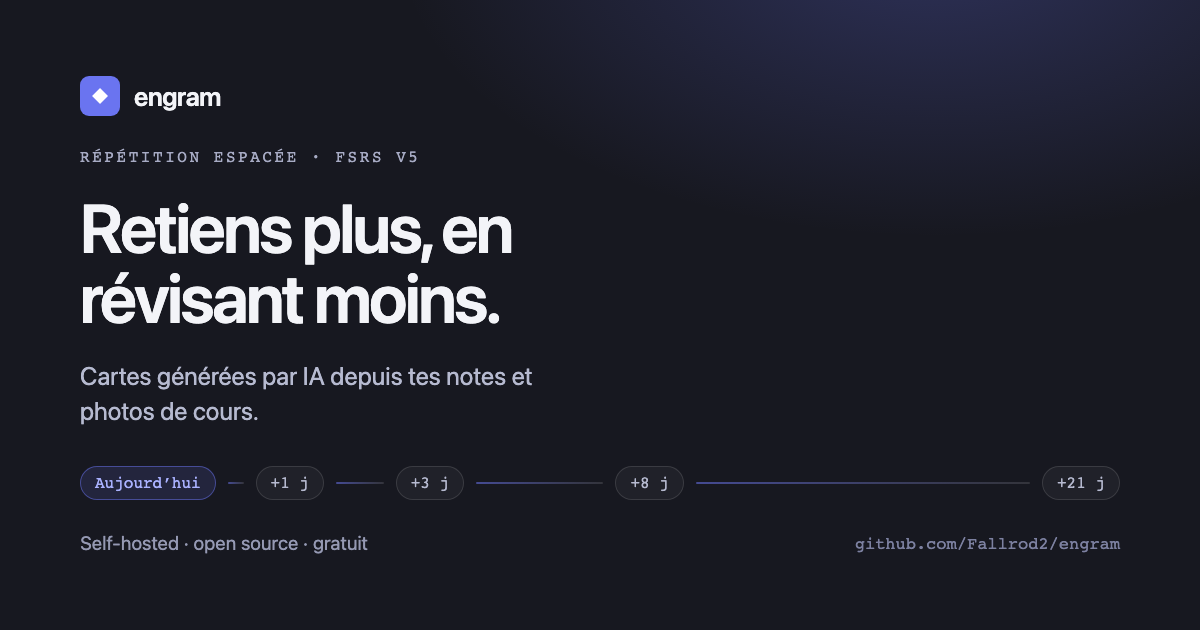
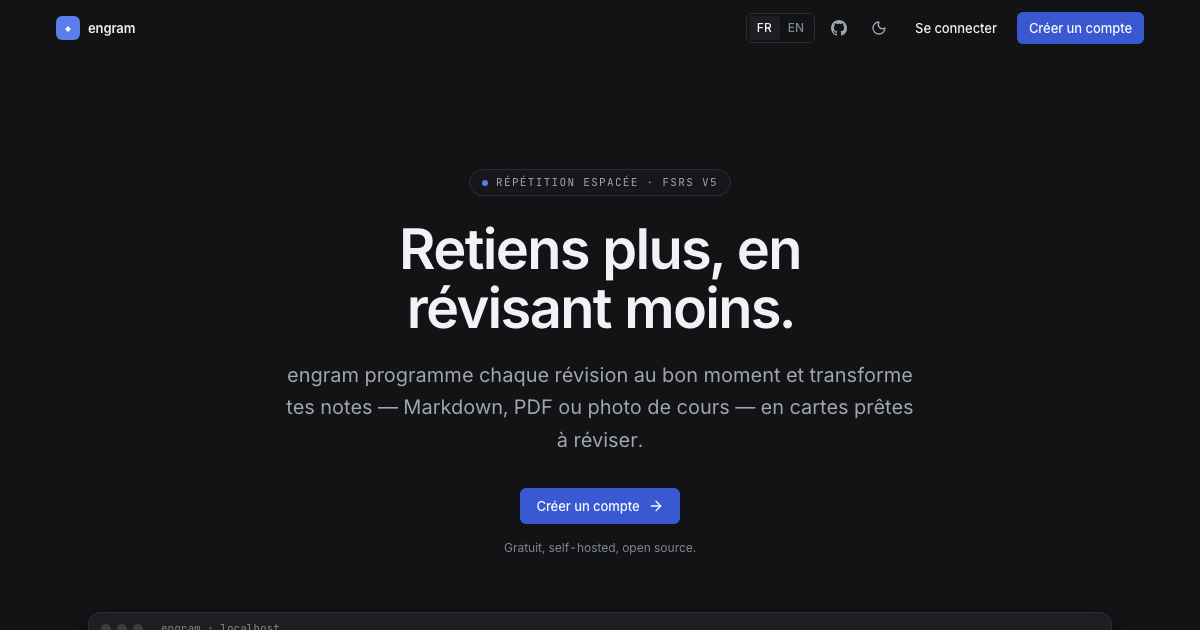
fix(web): EN product captures + og regeneration + rhythm-strip scroll fade
The EN landing reused 100% FR screenshots. Capture every product screen in four
variants — theme (dark/light) x language (fr/en) — written as
`<screen>-<theme>-<lang>.webp`, and swap ThemedShot on both theme AND language;
card content stays French (seeded user data), only the UI chrome localizes. The
capture script now also regenerates the social card `og.png` (the landing hero at
the declared 1200x630) so every landing asset is script-reproducible. On the
rhythm strip, the static right-edge fade veiled the final "+55 j" pill even when
scrolled to the end; make it scroll-driven so it lifts at the destination.

Claude-Session: https://claude.ai/code/session_01TxcajFqLamG8AJNQ91pR61

diff --git a/scripts/generate-landing-shots.ts b/scripts/generate-landing-shots.ts
@@ -2,21 +2,22 @@
  * Reproducible landing product-capture generator (finding: captures were stale —
  * old indigo, FR shots on the EN landing, an impossible "rating buttons without a
  * revealed answer" review state). Regenerates `apps/web/public/landing/*.webp`
- * from the CURRENT UI, dark + light, against a deterministic seeded stack.
+ * from the CURRENT UI against a deterministic seeded stack.
  *
- * Localization choice (documented, per the fix brief): product screenshots are
- * captured in the app's default language (FR — the primary EPITA audience) and
- * reused on both the FR and EN landings. The landing's screenshot swap keys on
- * THEME only (`ThemedShot`), which we keep: the shots are dense UI (numbers,
- * charts, a card) whose meaning survives the copy, and a 2×2×3 (lang×theme×screen)
- * matrix is not worth the maintenance. Re-run this after any material UI change.
+ * Localization: each product screen is captured in FOUR variants — theme (dark ×
+ * light) × language (fr × en) — written as `<screen>-<theme>-<lang>.webp`, so the
+ * EN landing shows EN app chrome instead of reusing the FR shots (`ThemedShot`
+ * keys on both theme and language). Card *content* stays French — it is seeded
+ * user data — only the UI chrome localizes. It also regenerates the social card
+ * `og.png` (the landing hero at the declared 1200×630) so every asset the landing
+ * ships is script-reproducible. Re-run after any material UI change.
  *
  * Isolation: a throwaway `engram_fixlandingpolish_*` database on the LOCAL
  * Supabase Postgres (127.0.0.1:54322) — created + migrated + dropped here, never
  * touching the shared `postgres` db. Dev ports 3004 (API) / 5176 (web), never the
  * 3001/5173 dev or 3100/3110 e2e ranges. Everything is torn down in `finally`.
  *
- *   bun scripts/generate-landing-shots.ts            # product captures + verify shots
+ *   bun scripts/generate-landing-shots.ts            # product captures + og + verify shots
  *   bun scripts/generate-landing-shots.ts --verify   # only the before/after verify shots
  */
 import { execFileSync, spawn, type ChildProcess } from 'node:child_process'
@@ -62,6 +63,13 @@ async function waitFor(url: string, label: string, timeoutMs = 120_000) {
 function toWebp(png: string, webp: string) {
   execFileSync('cwebp', ['-quiet', '-q', '90', png, '-o', webp])
   rmSync(png, { force: true })
+}
+
+/** Screenshot the current page to `<LANDING_DIR>/<name>.webp` (via a temp PNG). */
+async function shot(page: Page, name: string) {
+  const png = `${LANDING_DIR}/${name}.png`
+  await page.screenshot({ path: png })
+  toWebp(png, `${LANDING_DIR}/${name}.webp`)
 }
 
 /** Set theme + language before any app script runs, and skip onboarding. */
@@ -128,37 +136,59 @@ async function main() {
     mkdirSync(VERIFY_DIR, { recursive: true })
     const browser = await chromium.launch()
     try {
+      if (!verifyOnly) {
+        // -- Product captures: theme × language (four variants per screen). --
+        for (const theme of ['dark', 'light'] as const) {
+          for (const lang of ['fr', 'en'] as const) {
+            const ctx = await browser.newContext({ deviceScaleFactor: 2 })
+            const page = await ctx.newPage()
+            await primeContext(page, theme, lang)
+            const suffix = `${theme}-${lang}`
+
+            await page.setViewportSize({ width: 1440, height: 780 })
+            await page.goto(`${WEB}/`, { waitUntil: 'networkidle' })
+            await page.waitForTimeout(1200)
+            await shot(page, `dashboard-${suffix}`)
+
+            await page.setViewportSize({ width: 1080, height: 840 })
+            await page.goto(`${WEB}/review`, { waitUntil: 'networkidle' })
+            await page.waitForTimeout(800)
+            // Reveal the answer so the capture shows the flipped card WITH the
+            // question recall + the four ratings (the state that actually exists).
+            await page.keyboard.press('Space')
+            await page.waitForTimeout(700)
+            await shot(page, `review-${suffix}`)
+
+            await page.setViewportSize({ width: 1440, height: 980 })
+            await page.goto(`${WEB}/analytics`, { waitUntil: 'networkidle' })
+            await page.waitForTimeout(1400)
+            await shot(page, `analytics-${suffix}`)
+
+            await ctx.close()
+          }
+        }
+
+        // -- Social card (og.png): the landing hero at the declared 1200×630,
+        //    deviceScaleFactor 1 so the file matches og:image:width/height. --
+        const ogCtx = await browser.newContext({ deviceScaleFactor: 1 })
+        const ogPage = await ogCtx.newPage()
+        await primeContext(ogPage, 'dark', 'fr')
+        await ogPage.setViewportSize({ width: 1200, height: 630 })
+        await ogPage.goto(`${WEB}/welcome`, { waitUntil: 'networkidle' })
+        await ogPage.waitForTimeout(800)
+        await ogPage.screenshot({
+          path: `${LANDING_DIR}/og.png`,
+          clip: { x: 0, y: 0, width: 1200, height: 630 },
+        })
+        await ogCtx.close()
+      }
+
+      // -- Verification shots (FR), each fix at its cited viewport. --
       for (const theme of ['dark', 'light'] as const) {
         const ctx = await browser.newContext({ deviceScaleFactor: 2 })
         const page = await ctx.newPage()
         await primeContext(page, theme, 'fr')
 
-        if (!verifyOnly) {
-          // -- Product captures (dark + light). --
-          await page.setViewportSize({ width: 1440, height: 780 })
-          await page.goto(`${WEB}/`, { waitUntil: 'networkidle' })
-          await page.waitForTimeout(1200)
-          await page.screenshot({ path: `${LANDING_DIR}/dashboard-${theme}.png` })
-          toWebp(`${LANDING_DIR}/dashboard-${theme}.png`, `${LANDING_DIR}/dashboard-${theme}.webp`)
-
-          await page.setViewportSize({ width: 1080, height: 840 })
-          await page.goto(`${WEB}/review`, { waitUntil: 'networkidle' })
-          await page.waitForTimeout(800)
-          // Reveal the answer so the capture shows the flipped card WITH the
-          // question recall + the four ratings (the state that actually exists).
-          await page.keyboard.press('Space')
-          await page.waitForTimeout(700)
-          await page.screenshot({ path: `${LANDING_DIR}/review-${theme}.png` })
-          toWebp(`${LANDING_DIR}/review-${theme}.png`, `${LANDING_DIR}/review-${theme}.webp`)
-
-          await page.setViewportSize({ width: 1440, height: 980 })
-          await page.goto(`${WEB}/analytics`, { waitUntil: 'networkidle' })
-          await page.waitForTimeout(1400)
-          await page.screenshot({ path: `${LANDING_DIR}/analytics-${theme}.png` })
-          toWebp(`${LANDING_DIR}/analytics-${theme}.png`, `${LANDING_DIR}/analytics-${theme}.webp`)
-        }
-
-        // -- Verification shots (each fix, at cited viewports). --
         // Landing desktop (header CTA + toggle, final CTA at page foot).
         await page.setViewportSize({ width: 1280, height: 900 })
         await page.goto(`${WEB}/welcome`, { waitUntil: 'networkidle' })

diff --git a/apps/web/src/features/landing/landing-page.tsx b/apps/web/src/features/landing/landing-page.tsx
@@ -1,4 +1,4 @@
-import { useEffect, useState, type ReactNode } from 'react'
+import { useCallback, useEffect, useRef, useState, type ReactNode } from 'react'
 import { Link } from '@tanstack/react-router'
 import { motion, useReducedMotion } from 'motion/react'
 import { ArrowRight, Keyboard, LineChart, ScanLine } from 'lucide-react'
@@ -257,6 +257,26 @@ function RhythmStrip() {
   const t = useT()
   const unit = t('landing.rhythm.unit')
 
+  // Scroll-driven right-edge fade: it signals "more to scroll" on narrow screens,
+  // then lifts once the strip is scrolled to the end so the final pill (+55 j) is
+  // never left veiled at its destination (finding: static fade masked the last
+  // glyph). Recomputed on scroll + resize; a non-overflowing strip reads as
+  // "already at end", so no fade shows.
+  const scrollerRef = useRef<HTMLDivElement>(null)
+  const [atEnd, setAtEnd] = useState(true)
+
+  const syncFade = useCallback(() => {
+    const el = scrollerRef.current
+    if (!el) return
+    setAtEnd(el.scrollLeft + el.clientWidth >= el.scrollWidth - 1)
+  }, [])
+
+  useEffect(() => {
+    syncFade()
+    window.addEventListener('resize', syncFade)
+    return () => window.removeEventListener('resize', syncFade)
+  }, [syncFade])
+
   return (
     <section className="mx-auto w-full max-w-6xl px-4 py-16 sm:px-6 sm:py-20 lg:px-8">
       <div className="rounded-lg border border-border bg-surface-1 p-6 sm:p-8">
@@ -264,10 +284,10 @@ function RhythmStrip() {
         {/* Focusable + named: the strip scrolls horizontally below ~520px, so it
             must be reachable by keyboard (axe scrollable-region-focusable) — the
             page is mobile-first and claims 100% keyboard operability. */}
-        {/* The wrapper adds a right-edge fade so the horizontal cut on narrow
-            screens reads as "scroll me", not "content ends here". */}
         <div className="relative mt-6">
           <div
+            ref={scrollerRef}
+            onScroll={syncFade}
             className="overflow-x-auto pb-1"
             role="group"
             tabIndex={0}
@@ -289,7 +309,10 @@ function RhythmStrip() {
           </div>
           <div
             aria-hidden
-            className="pointer-events-none absolute inset-y-0 right-0 w-10 bg-gradient-to-l from-surface-1 to-transparent sm:hidden"
+            className={cn(
+              'pointer-events-none absolute inset-y-0 right-0 w-10 bg-gradient-to-l from-surface-1 to-transparent transition-opacity duration-200 sm:hidden',
+              atEnd && 'opacity-0',
+            )}
           />
         </div>
         <p className="mt-6 max-w-2xl text-sm leading-relaxed text-text-muted">
@@ -594,13 +617,17 @@ const SHOT_SIZE: Record<ShotBase, { width: number; height: number }> = {
 }
 
 /**
- * Theme-aware product screenshot. Picks the dark/light WebP from the resolved
- * theme (synchronous from the theme context — no flash, no extra loading state).
- * Served from `public/landing/`, so it never touches the JS bundle (§5.4).
+ * Theme- AND language-aware product screenshot. Picks the WebP for the resolved
+ * theme × active language (both synchronous from context — no flash, no extra
+ * loading state), so the EN landing shows an EN-chrome app instead of reusing the
+ * FR captures (finding: EN landing shipped 100% FR shots). Served from
+ * `public/landing/`, so it never touches the JS bundle (§5.4). The four variants
+ * per screen are regenerated by scripts/generate-landing-shots.ts.
  */
 function ThemedShot({ base, alt, priority }: { base: ShotBase; alt: string; priority?: boolean }) {
   const { resolved } = useTheme()
-  const src = `/landing/${base}-${resolved}.webp`
+  const { lang } = useLang()
+  const src = `/landing/${base}-${resolved}-${lang}.webp`
   const { width, height } = SHOT_SIZE[base]
   return (
     <img

diff --git a/apps/web/src/features/landing/landing-page.test.tsx b/apps/web/src/features/landing/landing-page.test.tsx
@@ -113,9 +113,9 @@ describe('<LandingPage>', () => {
 
   it('the product screenshots carry alt text (a11y)', () => {
     renderLanding()
-    // Dark theme by default → the dark WebP, with the localized alt.
+    // Dark theme + FR default → the dark FR WebP, with the localized alt.
     const shot = screen.getByAltText(/Tableau de bord d’engram/)
-    expect(shot.getAttribute('src')).toBe('/landing/dashboard-dark.webp')
+    expect(shot.getAttribute('src')).toBe('/landing/dashboard-dark-fr.webp')
   })
 
   it('defaults to English when the browser language is English and nothing is stored', () => {